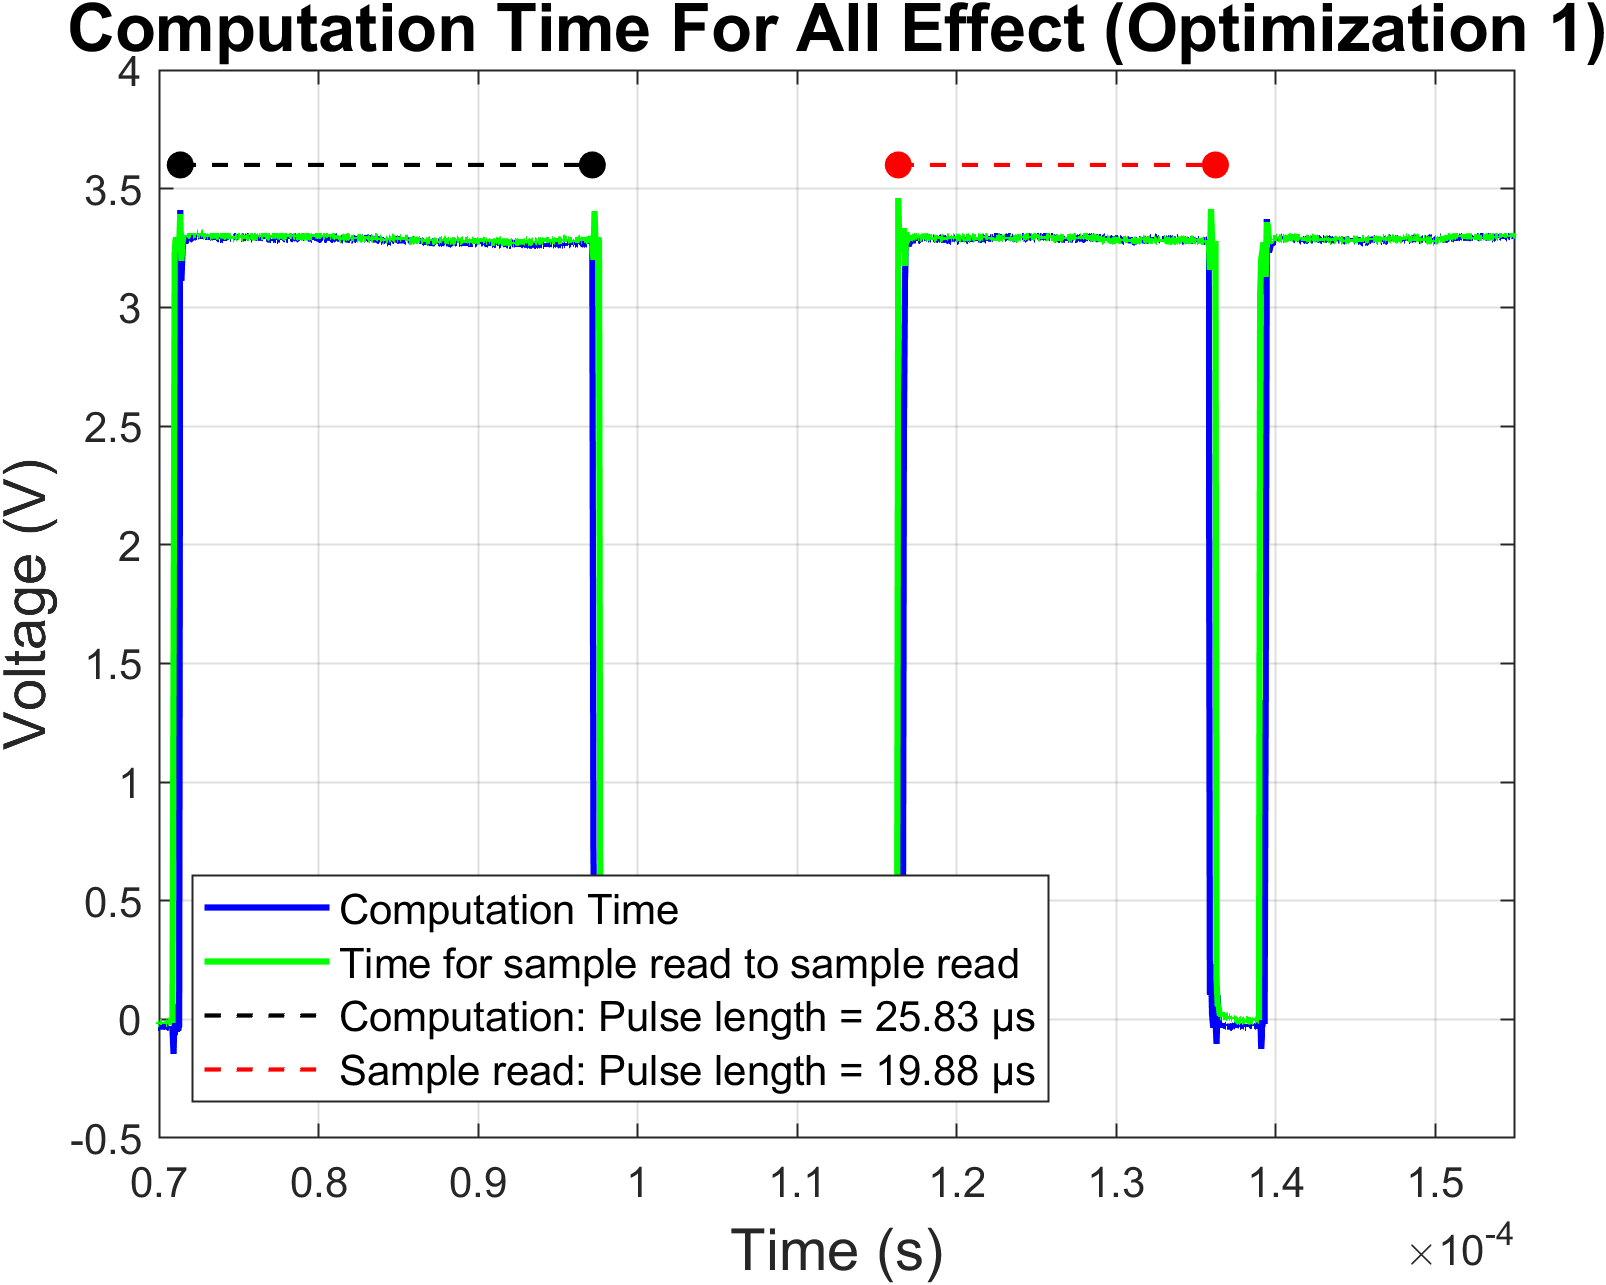
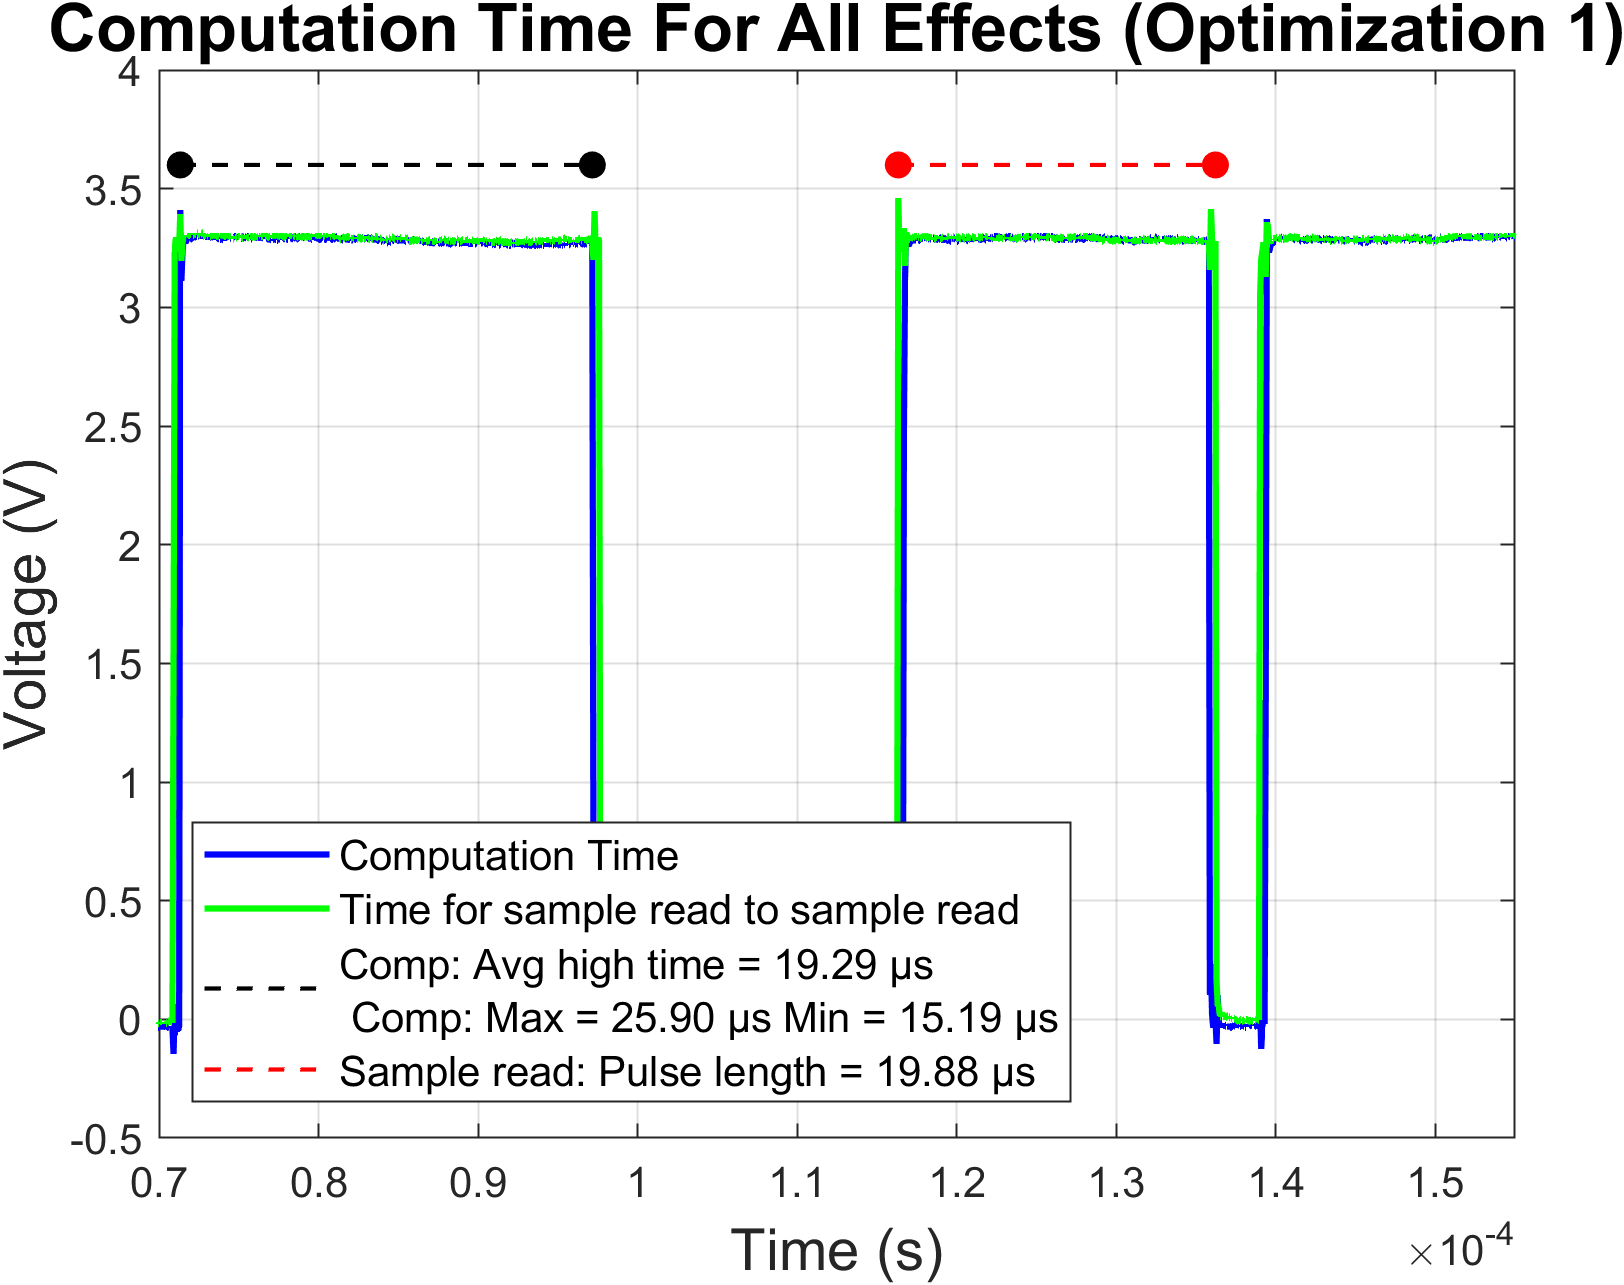
figure hopefull dynamic

diff --git a/gitfigures/ImplementationTest/sampling_test.m b/gitfigures/ImplementationTest/sampling_test.m
@@ -1,7 +1,7 @@
 clc; close all; clear;
 
 % Read data from CSV file
-data = readmatrix('allfx_computationtime.csv');  % Replace with your actual file name
+data = readmatrix('o3_allfx_computationtime.csv');  % Replace with your actual file name
 time = data(:, 1);       % Time (seconds)
 voltage1 = data(:, 3);   % Signal 1
 voltage2 = data(:, 2);   % Signal 2
@@ -15,7 +15,15 @@ risingEdges1 = find(diff([0; above1]) == 1);
 fallingEdges1 = find(diff([above1; 0]) == -1);
 numPulses1 = min(length(risingEdges1), length(fallingEdges1));
 pulseDurations1 = time(fallingEdges1(1:numPulses1)) - time(risingEdges1(1:numPulses1));
-avgHigh1 = mean(pulseDurations1);
+%avgHigh1 = mean(pulseDurations1);
+
+maxDurationLimit = 5.8e-06;  % seconds
+
+% Filter pulse durations based on the limit
+validDurations = pulseDurations1(pulseDurations1 >= maxDurationLimit);
+minHigh1 = min(validDurations);
+maxHigh1= max(validDurations);
+avgHigh1 = mean(validDurations);
 
 % === Signal 2: Detect high durations ===
 above2 = voltage2 > threshold;
@@ -72,7 +80,7 @@ end
 %    'Color', 'black', 'FontSize', 10, 'HorizontalAlignment', 'center');
 
 % === Add Legend with high time info ===
-legendStr1 = sprintf('Avg high time = %.2f μs, Pulse length = %.2f μs', avgHigh1*1e6, (t1_end - t1_start)*1e6);
+legendStr1 = sprintf('Comp: Avg high time = %.2f μs \n Comp: Max = %.2f μs Min = %.2f μs', avgHigh1*1e6,maxHigh1*1e6,minHigh1*1e6);
 legendStr2 = sprintf('Sample read: Pulse length = %.2f μs', (t2_end - t2_start)*1e6);
 legend([h1, h2,hPulse1, hPulse2],'Computation Time', 'Time for sample read to sample read',legendStr1, legendStr2, ...
        'Location', 'southwest', 'FontSize', 10);
@@ -81,11 +89,11 @@ legend([h1, h2,hPulse1, hPulse2],'Computation Time', 'Time for sample read to sa
 xlim([7e-5 15.5e-5]);
 xlabel('Time (s)', 'FontSize', 14);
 ylabel('Voltage (V)', 'FontSize', 14);
-title('Computation Time For All Effect (Optimization 2)', 'FontSize', 16);
+title('Computation Time For All Effects (Optimization 3)', 'FontSize', 16);
 grid on;
 
 saveFolder = fullfile(pwd,'..','..','gitfigures/ImplementationTest/');
-filePath = fullfile(saveFolder, sprintf('%s.png','ComputationTime_O2ALLFx'));
+filePath = fullfile(saveFolder, sprintf('%s.png','ComputationTime_O3ALLFx'));
 exportgraphics(figH, filePath, 'Resolution', 300);
 %filePath = fullfile(saveFolder, sprintf('%s.png','ComputationTime_noFx'));
 %exportgraphics(figJ, filePath, 'Resolution', 300);
